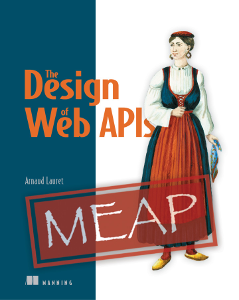
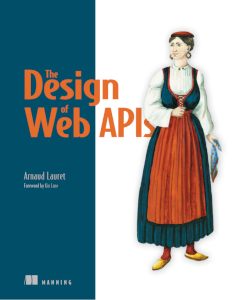
Few things I learned writing the Design of Web APIs + updated book cover

diff --git a/_posts/2019-11-02-few-things-i-learned-writing-the-design-of-web-apis.md b/_posts/2019-11-02-few-things-i-learned-writing-the-design-of-web-apis.md
@@ -1,0 +1,85 @@
+---
+title: Few things I learned writing The Design of Web APIs
+date: 2018-11-02
+author: Arnaud Lauret
+layout: post
+permalink: /few-things-i-learned-writing-the-design-of-web-apis/
+category: post
+---
+
+At last, my book The Design of Web APIs is finished and printed! I gradually got back to a "normal" life since the end of summer as the book entered in its production phase, but it was only when I received the printed copies two weeks ago that I had the feeling that this adventure was really over. And then holding the book in my hands, I wondered if it was worth having spent two years of my life on it, what did I learn spending almost all my free time working on this book? That sounded like a good topic to revive the API Handyman blog.
+<!--more-->
+
+# The Design of Web APIs
+
+The [Design of Web APIs]({{site.mybook}}) is my first book. Before that, I have been blogging for 2 years before being contacted by Manning to write a book about the OpenAPI Specification. It's an interesting topic (I spend almost a year writing a extensive [tutorial](http://apihandyman.io/writing-openapi-swagger-specification-tutorial-part-1-introduction/) on version 2) but I had other ideas in mind at that time: _The Design of Everyday APIs_. I wanted to write a book that teaches API design principles and not a book about a given technology, I wanted to make a sort of API design version of The Design of Everyday Things by Don Norman. I discovered this book thanks to [Mike Amundsen](https://twitter.com/mamund), it changed the way I envision software. 
+
+> The Design of Everyday Things is a best-selling book by cognitive scientist and usability engineer Donald Norman about how design serves as the communication between object and user, and how to optimize that conduit of communication in order to make the experience of using the object pleasurable. One of the main premises of the book is that although people are often keen to blame themselves when objects appear to malfunction, it is not the fault of the user but rather the lack of intuitive guidance that should be present in the design. ([Wikipedia](https://en.wikipedia.org/wiki/The_Design_of_Everyday_Things))
+
+The Design of Everyday APIs was only a working title, I never have been comfortable with it as I had the feeling that I was borrowing the fame of Don Norman's book. Hopefully it was changed to the more simple and obvious _The Design of Web APIs_.
+
+The title is not the only thing that has changed during the creation of this book. The table of content and the content itself has greatly evolve during these two years to become the book I'm so proud of. But more important, I changed by learning a few things.
+
+# How to actually write a technical book (or other things)
+
+I'm glad I made this book with a publisher and did not self-publish it because the result would probably have been a terrible mess ... if I actually finished it. Having a (good) publisher was great because the people working there helped me in many ways like, for example, fixing typos, challenging the book's content or gently asking me when I planned to finish the next chapter and so help me keeping the pace. But more important, if I know quite a few things about API design and I like story telling, I didn't knew how to actually write a book and my publisher taught me to do so. I'm not a professional writer, I may even be wrong, there are probably thousands of books and blog posts about writing, but here's what I retain after writing this book (and what I try to reuse now when writing anything):
+
+First define what you will actually talk about in your book. To do so, ask yourself:
+- Who are your readers? 
+- What do they need to know/do before reading the book?
+- What will they learn/be able to do by reading it?
+
+Once the book's objective is defined, write the table of content (ToC). It is the backbone of the book, your battle plan. It should tell a story that will help readers to achieve the book's objective.
+The first versions can be rough without going to deep into details, just think about the main steps of the story. You'll fill the details by working on each chapter and maybe adjust the ToC.
+
+Then for each chapter:
+- Make the elevator pitch of why readers should care about this chapter's content. It shouldn't take more than a few sentences.
+- List what readers need to know/do before reading it, basically topics from previous chapters. It may help to spot missed topics.
+- List new concept taught
+- List the examples used to explain the new concepts
+- Sketch the main diagrams that will be used
+
+It's not that easy to do, don't be afraid if it takes time but if if really doesn't work, maybe you should get rid of this chapter and rethink your ToC. With all these elements, it's easier to write the chapter: once you have a good view the content, you "only" need to focus on how to tell the story in an entertaining way. Without them, be ready to face the white page syndrome and rewrite the chapter endlessly.
+
+# There's more than what (you think) you know about the book's topic
+
+By writing a 400 pages book about API design, I ending by knowing far more about this topic than what I knew before starting it. This is not specific to book's writing, I already noticed that after I started to blog.
+Writing a book about API design forced me to actually list all the topics that readers need to be aware of and I "discovered" some topics I didn't care much about before starting the book. I had to deeply investigate topics these topics but also ones I thought I knew. And most interesting, I had to find new ways of explaining things, finding examples and drawing diagrams while preparing chapters was of great help to do so. 
+
+# How to receive and provide feedback
+
+I received a lot of feedback during the book's writing. I worked with a development editor and a technical editor who provided feedback on each chapter. There have been 3 readers reviews made on the first third (6 readers), second third (10 readers) and then first complete version of the book (16 readers). There were comments on the forum/live book. And I also got feedback from my friends and colleagues.
+
+The two first readers reviews, especially the second one, left me totally depressed. It was really hard to deal with them because some of them were negative. I even _felt_ that some were too harsh if not mean. I usually consider myself sufficiently adult to be able to get some negative feedback as long as it is argued and there can be a discussion. But, when you get feedback from a dozen readers at once and there is no possible discussion with the PDF file summing up their reviews, that's really hard to manage, at least for me. Hopefully, I could get beyond that thanks to two things.
+
+First, I step back and objectively analyze the reviews to split them in smaller elements. Frankly, I don't remember how I came to do that, probably because my development editor told me to do so or because I usually work like that. But I looked at the reviews and identified every good and bad point, check how many readers talk about them. Doing so I realized that it was not that bad and, even if that always hurt a bit, I agreed with most of the identified problems. I also realized that there was actually only one or two shitty reviewers (sorry, these persons may probably not actually be like that but this is how I felt based on the review) and this lead to my second point.
+
+So, the second thing that help me to go on after the reviews is that I'm lucky to know some authors who have been there and one of them gave me a really good advice. It could be summarized as "you under no obligation to give a shit about what people say". Listen to what people say, take what is of interest for you and your book and leave the rest. And if they are not happy with that, tell them to write their own book.
+
+After these reviews, I realized that I may have been one of these assholes myself. So, I'm really happy that they taught me how to provide better feedback, especially when not face to face, and (I hope) not to be an asshole anymore when providing feedback.
+
+# Be more confident
+
+Hopefully, my development and technical editors feedback were more constructive and encouraging, also were comments from my trusted friends and colleagues. That really gave me confidence. I realized that what I was creating was really good (and I just realized that I became confident enough to actually write that the book is good). Besides having good feedback, I got even more confident seeing how all the book's pieces fit together so well. And being confident about the book's content made me more confident about what I do in my daily job, that's priceless.
+
+# Trust, but verify
+
+When you finish to write a book, the work is not over. The final phase is called the production phase. It mostly deals with copy-editing, graphics-editing, typesetting. 
+
+- Copy-editing consist in fixing typos, grammar and vocabulary and also ensure a certain consistency in your writing. Note that in my case there was a previous ESL (english as second language) copy-editing phase to fix my frenglish. You must check every single modification made to YOUR text in order to be sure that what is written is ok for YOU. Some modifications may not make sense at all or you may simply not like them. It is your right to not accept such modification.
+- Graphics-editing is copy-editing for figures. Their texts will be copy-edited and their design may be more or less modified depending on their quality/style/size. In my case, my figures were only finally slightly modified but there has been some bug in the process. For an unknown reason, my figures were being totally remade in a new style that I totally hated. Hopefully, I noticed it and made that stopped. Everyone can make mistakes, that is why there are verifications phases, so don't take them lightly even if you trust the third-parties modifying your work.
+- My definition of typesetting is: ajdusting words (split them sometime) and figure positions to avoid empty spaces. If you ever wondered why in some books figures seem in awkward places, in my experience, that is due to typesetting. I had to request a few modifications, but taking typesetting contraints into consideration, in order to avoid such problems on a few figures.
+
+So, you can trust, be never forget to verify. Even if it is hard and boring as hell, you must be very careful when your book is modified by third-parties. You have to exhaustively check ALL modifications. Be confident and never refrain yourself to say no if something seem wrong for you.
+
+# Find a balance between the book and the rest
+
+Finding a balance between the book and the rest, especially my family is something that I didn't do so well at the beginning. If you do write a book, consider defined precisely when you work on it and keep time for your family and possibly for other activities (like reading, playing video games or playing the guitar in my case). That will keep everyone happy (including you) and increase your productivity when writing.
+
+# Never complain when reading others books
+
+And finally, now that I know how hard it is to write a book (and especially to spot all those fucking typos), I will never complain again when I read others books (but I may try to provide some useful and friendly feedback).
+
+# A new beginning
+
+Don't know if so many people will find this post interesting, but I needed to write it to not forget what I've been through. Know that I never regretted starting to write blog posts or the book, so maybe you should think about writing too. Whatever, I'm back on the blog, so stay tune for more API related posts.
